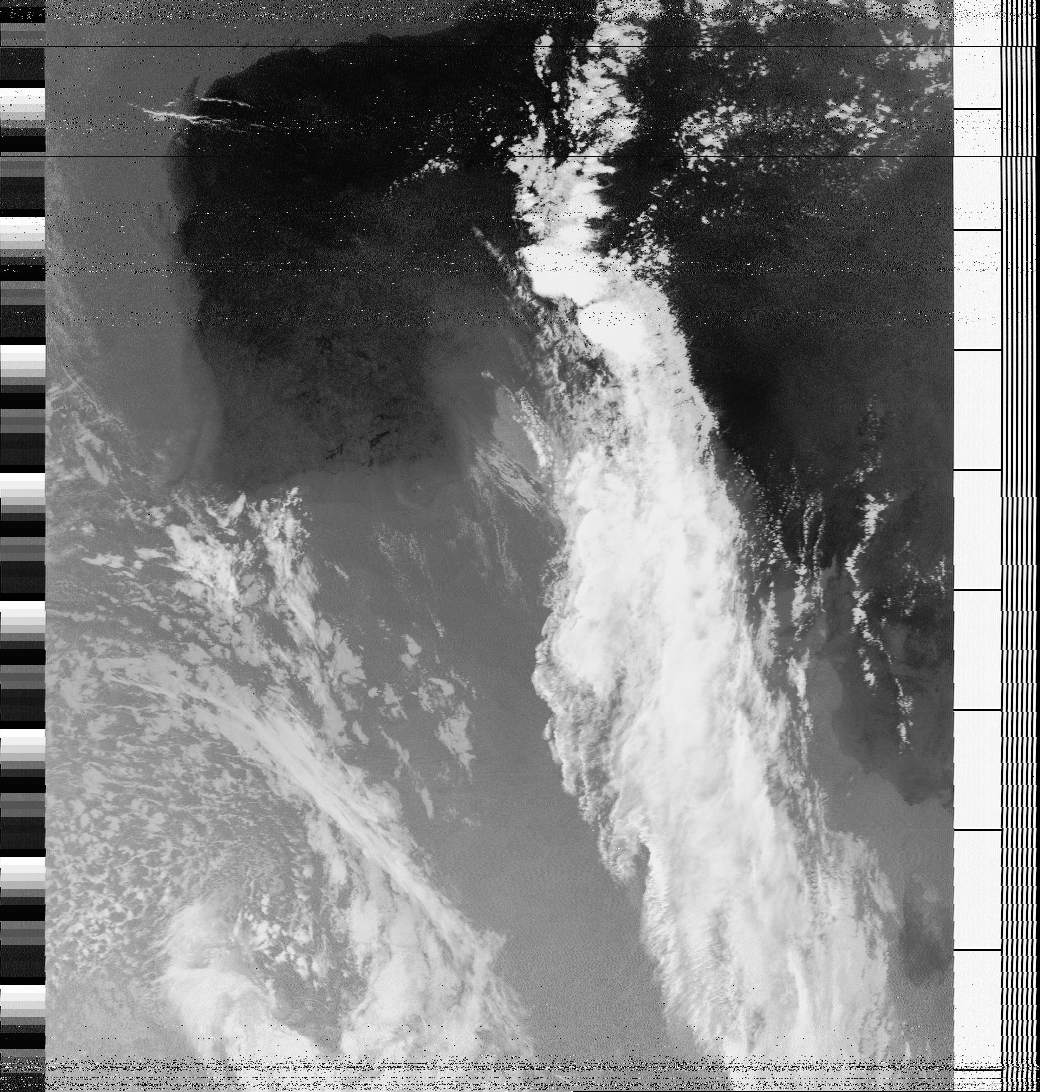
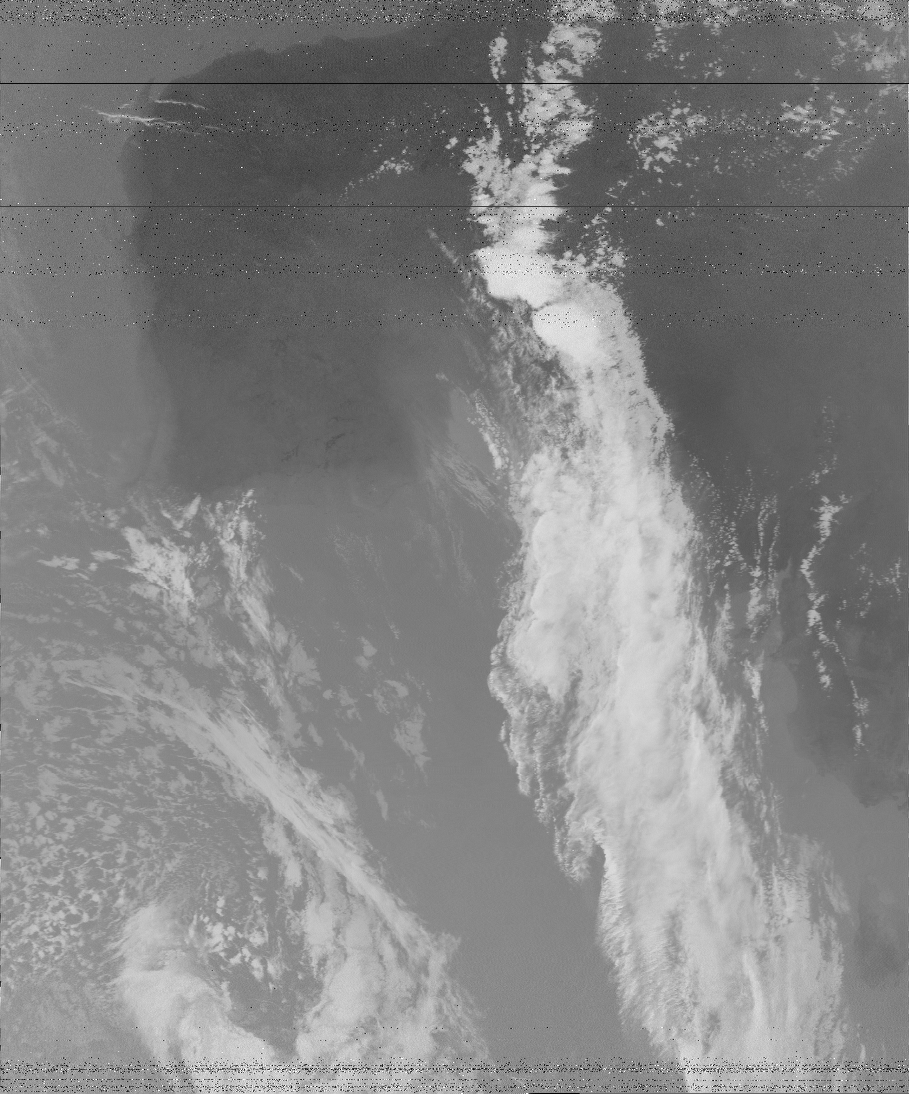
Telemetry Processing and Poor Image Quality Processing

diff --git a/p.py b/p.py
@@ -48,6 +48,13 @@ def process_tlm(tlm_strip):
 def closest(val, l):
     return min(range(len(l)), key=lambda i: abs(l[i]-val))
 
+AVHRR_CHANNELS = {1:['1', (0.58, 0.68), 'Visible', 'Daytime cloud and surface mapping'],
+                  2:['2', (0.73, 1.00), 'Near-IR', 'Land-water boundaries'],
+                  3:['3A', (1.58, 1.65), 'Near-IR', 'Snow and ice detection'],
+                  6:['3B', (3.55, 3.93), 'Near-IR', 'Night cloud mapping, sea surface temperature'],
+                  4:['4', (10.30, 11.30), 'Mid-IR', 'Night cloud mapping, sea surface temperature'],
+                  5:['5', (11.50, 12.50), 'Mid-IR', 'Sea surface temperature']}
+
 sync_width = 39
 space_mark_width = 47
 image_width = 909
@@ -144,95 +151,94 @@ with open(args.input_file, 'rb') as raw_data:
     raw_bytes = bytearray(raw_data.read())
 
 samples_found = len(raw_bytes) // BYTES_PER_FLOAT
-print('Found {} Samples'.format(samples_found))
 
 unpack_format = '<' + ('f' * samples_found)
 pixels = list(struct.unpack(unpack_format, raw_bytes))
-# n, bins, patches = plt.hist(pixels, 256, facecolor='g')
-# plt.plot(pixels)
-# plt.show()
-# if len(syncs):
-#    pixels = pixels[syncs[0]['index']:]
+
 print('Finding Sync Signals')
 pre_syncs = []
 new_pixels = []
+sync_lines = []
+max_sample = 0
+min_sample = 0
 if len(syncs):
     pre_syncs = pixels[0:syncs[0]['index']]
     additional_pixels = 2080 - (len(pre_syncs) % 2080)
     pre_syncs = ([0] * additional_pixels) + pre_syncs
-    print '***Additional Pixels {} ***'.format(additional_pixels)
     pre_syncs = [list(line) for line in grouper(2080, pre_syncs, 0)]
 
+    i = 0
     for sync in syncs:
+        sync_lines.append(i)
         pixel_set = pixels[sync['index']:sync['index'] + sync['nitems']]
         pixel_set = [list(line) for line in grouper(2080, pixel_set, pixel_set[-1])]
+        i += len(pixel_set)
         new_pixels.extend(pixel_set)
-
 
     aligned_start = len(pre_syncs)
     pixels = new_pixels
     pixels = pre_syncs + new_pixels
-
-print('Syncs/Lines Ratio: {} / {} - {:.0f}%'.format(len(syncs), len(pixels), (len(syncs)/float(len(pixels))) * 100 ))
-a_tlm = [line[tlm_frame_range['A'][0]:tlm_frame_range['A'][1]] for line in pixels[len(pre_syncs):]]
-a_tlm = [sum(line)/len(line) for line in a_tlm]
-b_tlm = [line[tlm_frame_range['B'][0]:tlm_frame_range['B'][1]] for line in pixels[len(pre_syncs):]]
-b_tlm = [sum(line)/len(line) for line in b_tlm]
-max_sample = max(max(a_tlm), max(b_tlm))
-min_sample = min(min(a_tlm), min(b_tlm))
+    last_sync = sync_lines[-1]
+    print('Syncs/Lines Ratio: {} / {} - {:.0f}%'.format(len(syncs), len(pixels), (len(syncs)/float(len(pixels))) * 100 ))
+    a_tlm = [line[tlm_frame_range['A'][0]:tlm_frame_range['A'][1]] for line in pixels[len(pre_syncs):len(pre_syncs)+last_sync]]
+    a_tlm = [sum(line)/len(line) for line in a_tlm]
+    b_tlm = [line[tlm_frame_range['B'][0]:tlm_frame_range['B'][1]] for line in pixels[len(pre_syncs):len(pre_syncs)+last_sync]]
+    b_tlm = [sum(line)/len(line) for line in b_tlm]
+    max_sample = max(max(a_tlm), max(b_tlm))
+    min_sample = min(min(a_tlm), min(b_tlm))
+else:
+    print('No Syncs Found - Minimal Processing')
+    max_sample = max(pixels)
+    min_sample = min(pixels)
+    pixels = [list(line) for line in grouper(2080, pixels, 0)]
 
 print('Scaling to 1-Byte Range')
 for i, line in enumerate(pixels):
-    l = np.clip(line, min_sample, max_sample)
-    for j, pixel in enumerate(l):
+    line = np.clip(line, min_sample, max_sample)
+    line = [float(p) for p in line]
+    for j, pixel in enumerate(line):
         pixels[i][j] = int(round(map(pixel, min_sample, max_sample, 0, 255)))
 
-print('Determining Telemetry Values')
-a_tlm = [line[tlm_frame_range['A'][0]:tlm_frame_range['A'][1]] for line in pixels[len(pre_syncs):]]
-b_tlm = [line[tlm_frame_range['B'][0]:tlm_frame_range['B'][1]] for line in pixels[len(pre_syncs):]]
-a_telemetry = process_tlm(a_tlm)
-b_telemetry = process_tlm(b_tlm)
-unified_tlm = [sum(x)/2 for x in zip(a_telemetry[0:14], b_telemetry[0:14])]
-telemetry = {'wedges':unified_tlm[0:8], 'zero_mod':unified_tlm[8],
-             'thermistors':unified_tlm[9:14], 'a_chan_back':a_telemetry[14],
-             'a_channel':a_telemetry[15], 'b_chan_back':b_telemetry[14],
-             'b_channel':b_telemetry[15]}
+if len(syncs):
+    print('Processing Telemetry')
+    a_tlm = [line[tlm_frame_range['A'][0]:tlm_frame_range['A'][1]] for line in pixels[len(pre_syncs):]]
+    b_tlm = [line[tlm_frame_range['B'][0]:tlm_frame_range['B'][1]] for line in pixels[len(pre_syncs):]]
+    a_telemetry = process_tlm(a_tlm)
+    b_telemetry = process_tlm(b_tlm)
+    unified_tlm = [sum(x)/2 for x in zip(a_telemetry[0:14], b_telemetry[0:14])]
+    telemetry = {'wedges':unified_tlm[0:8], 'zero_mod':unified_tlm[8],
+                 'thermistors':unified_tlm[9:14], 'a_bb':a_telemetry[14],
+                 'a_channel':a_telemetry[15], 'b_bb':b_telemetry[14],
+                 'b_channel':b_telemetry[15]}
 
-telemetry['a_channel'] = closest(telemetry['a_channel'], telemetry['wedges']) + 1
-telemetry['b_channel'] = closest(telemetry['b_channel'], telemetry['wedges']) + 1
-print(telemetry)
+    telemetry['a_channel'] = closest(telemetry['a_channel'], telemetry['wedges']) + 1
+    telemetry['b_channel'] = closest(telemetry['b_channel'], telemetry['wedges']) + 1
+    print('Image Information:')
+    a_info = AVHRR_CHANNELS[telemetry['a_channel']]
+    b_info = AVHRR_CHANNELS[telemetry['b_channel']]
+    print('     Frame A: AVHRR Channel {} - {} - {}'.format(a_info[0], a_info[2], a_info[3]))
+    print('     Frame B: AVHRR Channel {} - {} - {}'.format(b_info[0], b_info[2], b_info[3]))
+    print('     Wedges: {}'.format(telemetry['wedges']))
+    print('     Zero Modulation Reference: {}'.format(telemetry['zero_mod']))
+    print('     A Blackbody: {}'.format(telemetry['a_bb']))
+    print('     B Blackbody: {}'.format(telemetry['b_bb']))
+    print('     Thermistors: {}'.format(telemetry['thermistors']))
 
 raw_images = {}
-# raw_images['A_FULL'] = [line[0:full_channel_width] for line in pixels]
-# raw_images['A_SYNC'] = [line[sync_range[0]:sync_range[1]] for line in raw_images['A_FULL']]
-# raw_images['A_SPACE'] = [line[space_mark_range[0]:space_mark_range[1]] for line in raw_images['A_FULL']]
-# raw_images['A_IMAGE'] = [line[image_range[0]:image_range[1]] for line in raw_images['A_FULL']]
-# raw_images['A_TLM'] = [line[tlm_frame_range[0]:tlm_frame_range[1]] for line in raw_images['A_FULL']]
-# raw_images['B_FULL'] = [line[full_channel_width:] for line in pixels]
-# raw_images['B_SYNC'] = [line[sync_range[0]:sync_range[1]] for line in raw_images['B_FULL']]
-# raw_images['B_SPACE'] = [line[space_mark_range[0]:space_mark_range[1]] for line in raw_images['B_FULL']]
-# raw_images['B_IMAGE'] = [line[image_range[0]:image_range[1]] for line in raw_images['B_FULL']]
-# raw_images['B_TLM'] = [line[tlm_frame_range[0]:tlm_frame_range[1]] for line in raw_images['B_FULL']]
 raw_images['F'] = pixels
+if len(syncs):
+    raw_images['A'] = [line[image_range['A'][0]:image_range['A'][1]] for line in pixels]
+    raw_images['B'] = [line[image_range['B'][0]:image_range['B'][1]] for line in pixels]
 
-
-
-# min_sample = min(pixels)
-# max_sample = max(pixels)
-
-
-# lines = len(pixels) // samples_per_line
-#pixels = pixels[0:samples_per_line * lines]
 for image in raw_images:
-    print('Generating PNG Images')
     lines = len(raw_images[image])
     width = len(raw_images[image][0])
     pixels = [item for sublist in raw_images[image] for item in sublist]
-    print('Found {} useable lines.'.format(lines))
 
     output_file = input_file_directory + input_filename_base + image + '.png'
     image = Image.new(GRAYSCALE, (width, lines))
     image.putdata(pixels)
-    # image = ImageOps.equalize(image.rotate(180))
     image = image.rotate(180)
+    if not len(syncs):
+        image = ImageOps.equalize(image)
     image.save(output_file)

diff --git a/grc_files/top_block.py b/grc_files/top_block.py
@@ -1,9 +1,8 @@
 #!/usr/bin/env python2
-# -*- coding: utf-8 -*-
 ##################################################
 # GNU Radio Python Flow Graph
 # Title: Top Block
-# Generated: Thu Feb 25 11:28:09 2016
+# Generated: Thu Feb 25 18:10:07 2016
 ##################################################
 
 if __name__ == '__main__':
@@ -41,9 +40,9 @@ class top_block(gr.top_block, Qt.QWidget):
         Qt.QWidget.__init__(self)
         self.setWindowTitle("Top Block")
         try:
-            self.setWindowIcon(Qt.QIcon.fromTheme('gnuradio-grc'))
+             self.setWindowIcon(Qt.QIcon.fromTheme('gnuradio-grc'))
         except:
-            pass
+             pass
         self.top_scroll_layout = Qt.QVBoxLayout()
         self.setLayout(self.top_scroll_layout)
         self.top_scroll = Qt.QScrollArea()
@@ -150,13 +149,13 @@ class top_block(gr.top_block, Qt.QWidget):
         
         self._qtgui_time_raster_sink_x_0_win = sip.wrapinstance(self.qtgui_time_raster_sink_x_0.pyqwidget(), Qt.QWidget)
         self.top_layout.addWidget(self._qtgui_time_raster_sink_x_0_win)
-        self.fm_demodulated_source = blocks.wavfile_source("/Users/bjmclaug/source/stem_station/sample_files/N18_4827.wav", False)
-        self.blocks_throttle_0 = blocks.throttle(gr.sizeof_float*1, samp_rate,True)
-        self.blocks_file_meta_sink_0 = blocks.file_meta_sink(gr.sizeof_float*1, "/Users/bjmclaug/source/stem_station/raw_meta.dat", baud_rate, 1, blocks.GR_FILE_FLOAT, False, baud_rate * (60 * 20), "", True)
+        self.fm_demodulated_source = blocks.wavfile_source("/home/brian/Downloads/1413625450X5.wav", False)
+        self.blocks_throttle_0 = blocks.throttle(gr.sizeof_float*1, 20800,True)
+        self.blocks_file_meta_sink_0 = blocks.file_meta_sink(gr.sizeof_float*1, "/home/brian/stem_station/raw_meta3.dat", baud_rate, 1, blocks.GR_FILE_FLOAT, False, baud_rate * (60 * 20), "", True)
         self.blocks_file_meta_sink_0.set_unbuffered(False)
         self.apt_am_demod_0 = apt_am_demod(
             parameter_apt_gain=signal_gain,
-            parameter_samp_rate=11.025e3,
+            parameter_samp_rate=20800,
         )
 
         ##################################################
@@ -172,7 +171,6 @@ class top_block(gr.top_block, Qt.QWidget):
         self.settings = Qt.QSettings("GNU Radio", "top_block")
         self.settings.setValue("geometry", self.saveGeometry())
         event.accept()
-
 
     def get_factor_of_baud(self):
         return self.factor_of_baud
@@ -202,7 +200,6 @@ class top_block(gr.top_block, Qt.QWidget):
 
     def set_samp_rate(self, samp_rate):
         self.samp_rate = samp_rate
-        self.blocks_throttle_0.set_sample_rate(self.samp_rate)
 
     def get_demod_rate(self):
         return self.demod_rate
@@ -211,15 +208,14 @@ class top_block(gr.top_block, Qt.QWidget):
         self.demod_rate = demod_rate
 
 
-def main(top_block_cls=top_block, options=None):
-
+if __name__ == '__main__':
+    parser = OptionParser(option_class=eng_option, usage="%prog: [options]")
+    (options, args) = parser.parse_args()
     from distutils.version import StrictVersion
     if StrictVersion(Qt.qVersion()) >= StrictVersion("4.5.0"):
-        style = gr.prefs().get_string('qtgui', 'style', 'raster')
-        Qt.QApplication.setGraphicsSystem(style)
+        Qt.QApplication.setGraphicsSystem(gr.prefs().get_string('qtgui','style','raster'))
     qapp = Qt.QApplication(sys.argv)
-
-    tb = top_block_cls()
+    tb = top_block()
     tb.start()
     tb.show()
 
@@ -228,7 +224,4 @@ def main(top_block_cls=top_block, options=None):
         tb.wait()
     qapp.connect(qapp, Qt.SIGNAL("aboutToQuit()"), quitting)
     qapp.exec_()
-
-
-if __name__ == '__main__':
-    main()
+    tb = None  # to clean up Qt widgets
